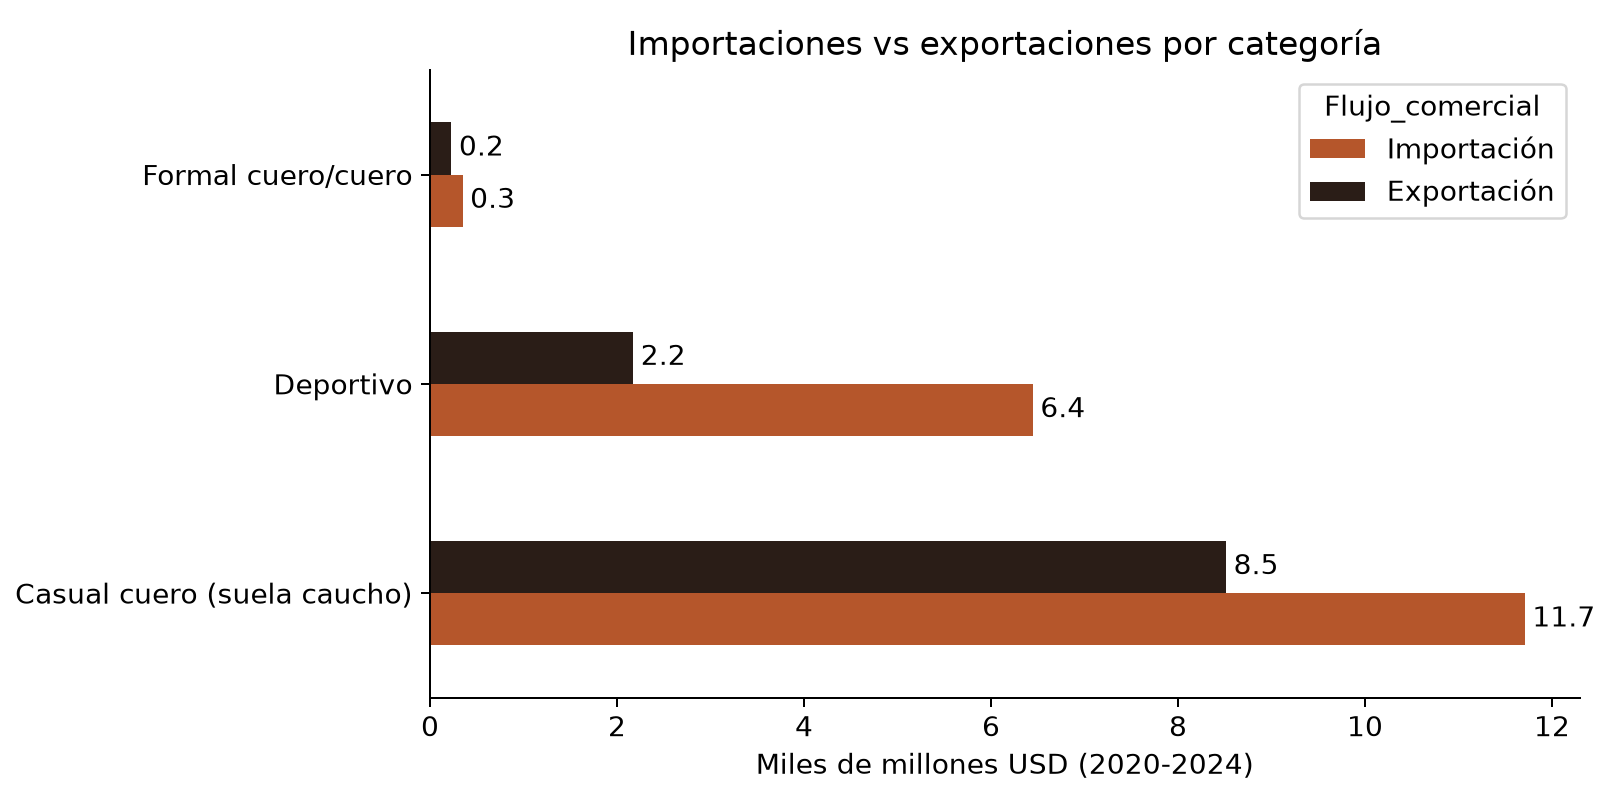
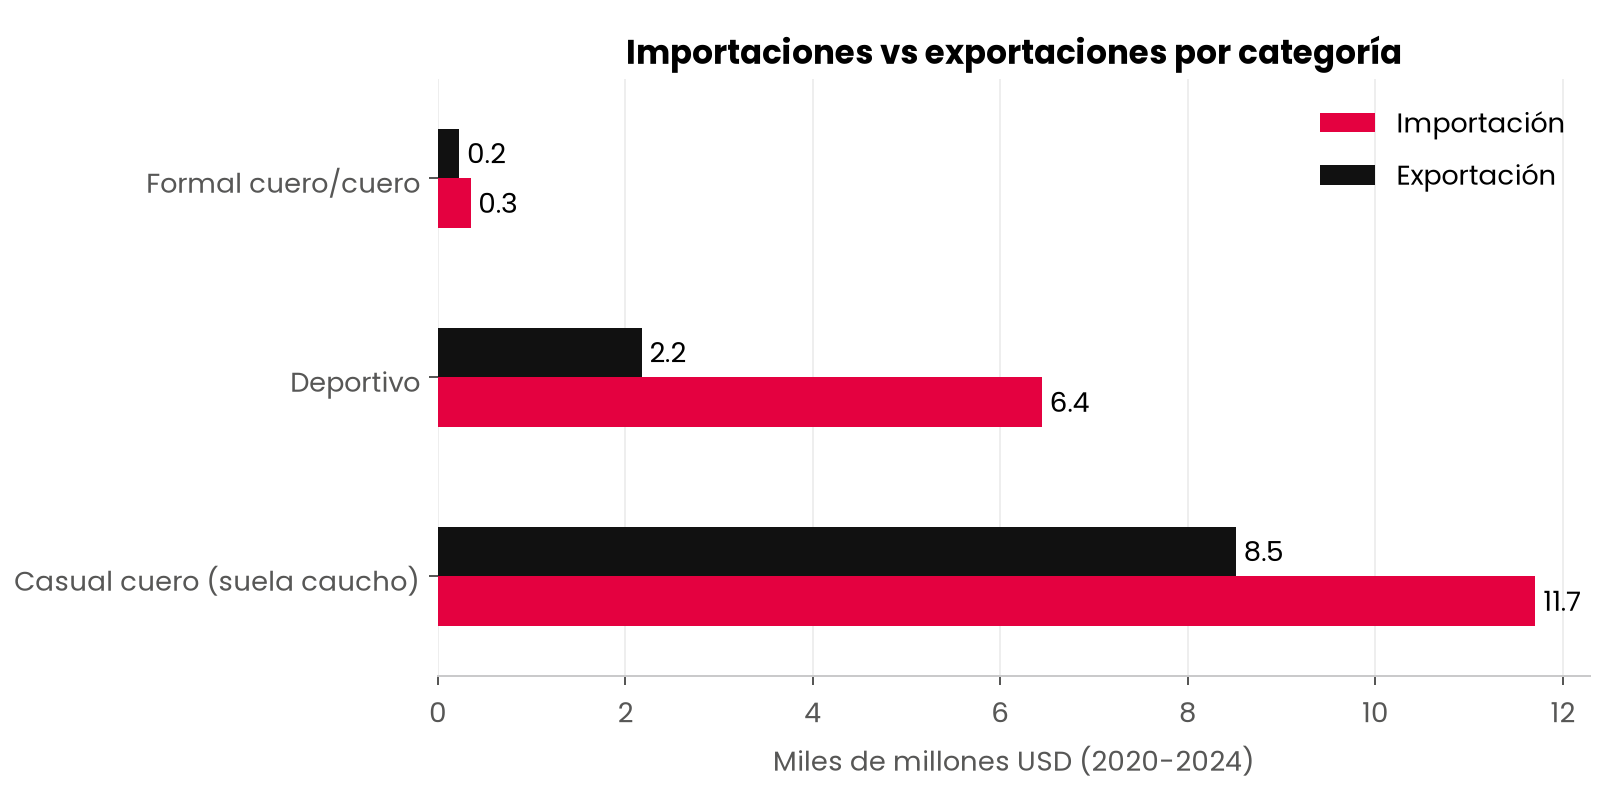
Gráficos y scripts de entregables con identidad Manaco (rojo #E40140, Poppins)

diff --git a/herramientas/ppt.js b/herramientas/ppt.js
@@ -1,21 +1,22 @@
 const pptxgen = require("pptxgenjs"), path = require("path"), fs = require("fs");
 const P = process.argv[2], G = f => path.join(P, "graficos", f), I = f => path.join(P, "app", "img", f);
 const pres = new pptxgen(); pres.layout = "LAYOUT_16x9"; // 10 x 5.625
-pres.theme = { headFontFace: "Cambria", bodyFontFace: "Calibri" };
-const ROJO = "B5562B", TINTA = "2A1D17", OSC = "2A1D17", GRIS = "F6F1EA", MUTE = "8A7A6C", BL = "FFFFFF";
-const T = (s, txt, o) => s.addText(txt, Object.assign({ isTextBox: true, fontFace: "Calibri", color: TINTA, margin: 0 }, o));
-const titulo = (s, t) => T(s, t, { x: 0.5, y: 0.35, w: 9, h: 0.7, fontFace: "Cambria", fontSize: 30, bold: true });
+pres.theme = { headFontFace: "Poppins", bodyFontFace: "Poppins" };
+const ROJO = "E40140", TINTA = "111111", OSC = "111111", GRIS = "F5F5F5", MUTE = "707072", BL = "FFFFFF";
+const T = (s, txt, o) => s.addText(txt, Object.assign({ isTextBox: true, fontFace: "Poppins", color: TINTA, margin: 0 }, o));
+const titulo = (s, t) => T(s, t, { x: 0.5, y: 0.35, w: 9, h: 0.7, fontFace: "Poppins", fontSize: 26, bold: true });
 const card = (s, x, y, w, h, fill = GRIS) => s.addShape(pres.shapes.ROUNDED_RECTANGLE, { x, y, w, h, rectRadius: 0.12, fill: { color: fill }, line: { color: fill } });
 const circ = (s, x, y, n, d = 0.5) => { s.addShape(pres.shapes.OVAL, { x, y, w: d, h: d, fill: { color: ROJO }, line: { color: ROJO } }); T(s, String(n), { x, y, w: d, h: d, align: "center", valign: "middle", color: BL, bold: true, fontSize: 16 }); };
 const pie = s => T(s, "Manaco Vision · Caso Manaco", { x: 0.5, y: 5.25, w: 5, h: 0.25, fontSize: 9, color: MUTE });
 
 // 1 Portada
-let s = pres.addSlide(); s.background = { color: OSC };
-T(s, "CASO DE ESTUDIO EMPRESARIAL · MANACO", { x: 0.6, y: 0.8, w: 6, h: 0.3, fontSize: 12, color: "B3A394", charSpacing: 2 });
-T(s, "Manaco Vision", { x: 0.6, y: 1.25, w: 6, h: 1, fontFace: "Cambria", fontSize: 48, bold: true, color: BL });
-T(s, "Inventario inteligente con visión artificial para decidir con datos", { x: 0.6, y: 2.3, w: 5.6, h: 0.8, fontSize: 18, color: "EDE3D8" });
-T(s, "Equipo consultor: ____________ / ____________", { x: 0.6, y: 3.9, w: 5.5, h: 0.3, fontSize: 13, color: "D8C8B8" });
-T(s, "20 de octubre de 2026", { x: 0.6, y: 4.25, w: 5.5, h: 0.3, fontSize: 13, color: "B3A394" });
+let s = pres.addSlide(); s.background = { color: ROJO };
+T(s, "manaco", { x: 0.6, y: 0.55, w: 4, h: 0.6, fontSize: 30, bold: true, italic: true, color: BL });
+T(s, "CASO DE ESTUDIO EMPRESARIAL", { x: 0.6, y: 1.15, w: 6, h: 0.3, fontSize: 11, color: "FFD1DD", charSpacing: 2 });
+T(s, "Manaco Vision", { x: 0.6, y: 1.5, w: 6, h: 0.9, fontFace: "Poppins", fontSize: 42, bold: true, color: BL });
+T(s, "Inventario inteligente con visión artificial para decidir con datos", { x: 0.6, y: 2.3, w: 5.6, h: 0.8, fontSize: 17, color: BL });
+T(s, "Equipo consultor: ____________ / ____________", { x: 0.6, y: 3.9, w: 5.5, h: 0.3, fontSize: 13, color: BL });
+T(s, "20 de octubre de 2026", { x: 0.6, y: 4.25, w: 5.5, h: 0.3, fontSize: 13, color: "FFD1DD" });
 card(s, 6.9, 1.1, 2.5, 3.1, BL);
 s.addImage({ path: G("qr_app.png"), x: 7.15, y: 1.3, w: 2.0, h: 2.0 });
 T(s, "Escanea y pruébalo", { x: 6.9, y: 3.4, w: 2.5, h: 0.3, align: "center", fontSize: 13, bold: true, color: ROJO });
@@ -25,8 +26,8 @@ s.addNotes("(15 s) Buenos días. Somos el equipo consultor contratado por la Ger
 // 2 Problema
 s = pres.addSlide(); s.background = { color: BL }; titulo(s, "Manaco decide sin datos confiables");
 const probs = [["Importados baratos", "Presión de precios, sobre todo en deportivo"], ["Costos altos", "Producción, almacenaje y distribución"], ["Inventario a ciegas", "Faltantes y sobrestock que nadie detecta"], ["Datos dispersos", "Ventas, stock y clientes sin integrar"]];
-probs.forEach(([h, d], i) => { const x = 0.5 + i * 2.3; card(s, x, 1.35, 2.1, 2.2); circ(s, x + 0.2, 1.55, i + 1); T(s, h, { x: x + 0.2, y: 2.2, w: 1.75, h: 0.4, fontSize: 15, bold: true }); T(s, d, { x: x + 0.2, y: 2.6, w: 1.75, h: 0.8, fontSize: 12, color: MUTE }); });
-card(s, 0.5, 3.85, 9, 1.1, "FBEFE7");
+probs.forEach(([h, d], i) => { const x = 0.5 + i * 2.3; card(s, x, 1.3, 2.1, 2.35); circ(s, x + 0.2, 1.45, i + 1); T(s, h, { x: x + 0.2, y: 2.05, w: 1.8, h: 0.55, fontSize: 13, bold: true, valign: "top" }); T(s, d, { x: x + 0.2, y: 2.62, w: 1.8, h: 0.9, fontSize: 11, valign: "top", color: MUTE }); });
+card(s, 0.5, 3.85, 9, 1.1, "FDE8EE");
 T(s, [{ text: "Causa raíz: ", options: { bold: true, color: ROJO } }, { text: "las decisiones se toman \"a ojo\". Si había 10, se vendieron 2 y hay 7… hoy nadie se entera del par que falta." }], { x: 0.8, y: 3.95, w: 8.4, h: 0.9, fontSize: 15, valign: "middle" });
 pie(s);
 s.addNotes("(45 s) Manaco enfrenta cuatro problemas: importados baratos, costos altos, inventario sin control y datos dispersos. Pero la causa raíz es una sola: deciden sin información confiable. Ejemplo: había 10 pares, se vendieron 2, deberían quedar 8, pero quedan 7. Ese par perdido hoy no se detecta; multiplicado por todas las tiendas, es dinero que se va.");
@@ -35,7 +36,7 @@ s.addNotes("(45 s) Manaco enfrenta cuatro problemas: importados baratos, costos 
 s = pres.addSlide(); s.background = { color: BL }; titulo(s, "Los datos dicen: competir en cuero, no en precio");
 s.addImage({ path: G("3_valor_por_par.png"), x: 0.4, y: 1.2, w: 5.6, h: 2.8 });
 const stats = [["≈ 45 USD", "por par vale el cuero/cuero, casi el doble que el resto (≈ 25)"], ["3×", "más importación que exportación en deportivo"], ["230", "registros depurados (2020–2024), sin nulos ni doble conteo"]];
-stats.forEach(([n, d], i) => { const y = 1.2 + i * 1.0; T(s, n, { x: 6.3, y, w: 3.2, h: 0.5, fontFace: "Cambria", fontSize: 28, bold: true, color: ROJO }); T(s, d, { x: 6.3, y: y + 0.48, w: 3.2, h: 0.45, fontSize: 11, color: MUTE }); });
+stats.forEach(([n, d], i) => { const y = 1.2 + i * 1.0; T(s, n, { x: 6.3, y, w: 3.2, h: 0.5, fontFace: "Poppins", fontSize: 28, bold: true, color: ROJO }); T(s, d, { x: 6.3, y: y + 0.48, w: 3.2, h: 0.45, fontSize: 11, color: MUTE }); });
 T(s, "Fuente: base de comercio exterior de calzado (país reportante: España). Es referencia de mercado, no son ventas de Manaco. El valor por par es valor en aduana, no precio al consumidor.", { x: 0.5, y: 4.4, w: 9, h: 0.5, fontSize: 10, color: MUTE, italic: true });
 pie(s);
 s.addNotes("(60 s) Limpiamos la base: 240 registros, sin nulos, sin registros 'Mundo', y agregamos 10 duplicados. Hallazgo clave: el calzado de cuero vale casi el doble por par. El deportivo es donde más presiona el importado barato. Conclusión: Manaco no debe pelear por precio, sino por su fortaleza, el cuero. Limitación honesta: son datos de España, una referencia externa, y el valor es en aduana.");
@@ -55,7 +56,7 @@ s = pres.addSlide(); s.background = { color: BL }; titulo(s, "Prototipo real: 72
 const cat = JSON.parse(fs.readFileSync(path.join(P, "dataset", "catalogo.json")));
 cat.filter((_, i) => i % 72 === 5).slice(0, 10).forEach((c, i) => { const x = 0.5 + (i % 5) * 1.25, y = 1.25 + Math.floor(i / 5) * 1.55; card(s, x, y, 1.12, 1.4, BL); s.addImage({ path: path.join(P, "app", c.imagen), x: x + 0.06, y: y + 0.05, w: 1.0, h: 1.0, sizing: { type: "contain", w: 1.0, h: 1.0 } }); T(s, c.nombre.split(" - ")[0].replace(/^(DEPORTIVO|ZAPATO DE VESTIR|ZAPATO FORMAL|ZAPATO|CASUAL CORDONES|ZAPATILLAS|BOTIN)\s*/i, "") || c.nombre, { x, y: y + 1.07, w: 1.12, h: 0.3, align: "center", fontSize: 9, bold: true }); });
 card(s, 6.9, 1.25, 2.6, 3.0, GRIS);
-T(s, "95 %", { x: 6.9, y: 1.35, w: 2.6, h: 0.7, align: "center", fontFace: "Cambria", fontSize: 40, bold: true, color: ROJO });
+T(s, "95 %", { x: 6.9, y: 1.35, w: 2.6, h: 0.7, align: "center", fontFace: "Poppins", fontSize: 40, bold: true, color: ROJO });
 T(s, "el modelo correcto está entre las 3 opciones · 82 % exacto", { x: 7.0, y: 2.05, w: 2.4, h: 0.55, align: "center", fontSize: 11, color: MUTE });
 s.addImage({ path: G("qr_app.png"), x: 7.6, y: 2.7, w: 1.2, h: 1.2 });
 T(s, "Demo en vivo", { x: 6.9, y: 3.9, w: 2.6, h: 0.3, align: "center", fontSize: 12, bold: true });
@@ -66,7 +67,7 @@ s.addNotes("(45 s) DEMO: abrir la app en el celular, apuntar a la foto de un zap
 // 6 Metas
 s = pres.addSlide(); s.background = { color: BL }; titulo(s, "Metas a 3 años y cómo las mediremos");
 const kpis = [["≥ 98 %", "Exactitud de inventario", "en 12 meses · KPI: sistema vs. conteo físico"], ["−20 %", "Sobrestock", "en 24 meses · KPI: rotación de inventario"], ["+15 %", "Ventas línea cuero", "en 36 meses · KPI: % de ventas en Bs"]];
-kpis.forEach(([n, h, d], i) => { const x = 0.5 + i * 3.05; card(s, x, 1.3, 2.85, 1.85); T(s, n, { x: x + 0.25, y: 1.45, w: 2.4, h: 0.65, fontFace: "Cambria", fontSize: 32, bold: true, color: ROJO }); T(s, h, { x: x + 0.25, y: 2.12, w: 2.4, h: 0.35, fontSize: 15, bold: true }); T(s, d, { x: x + 0.25, y: 2.5, w: 2.4, h: 0.55, fontSize: 11, color: MUTE }); });
+kpis.forEach(([n, h, d], i) => { const x = 0.5 + i * 3.05; card(s, x, 1.3, 2.85, 1.85); T(s, n, { x: x + 0.25, y: 1.45, w: 2.4, h: 0.65, fontFace: "Poppins", fontSize: 32, bold: true, color: ROJO }); T(s, h, { x: x + 0.25, y: 2.1, w: 2.45, h: 0.35, fontSize: 13, bold: true }); T(s, d, { x: x + 0.25, y: 2.5, w: 2.4, h: 0.55, fontSize: 11, color: MUTE }); });
 T(s, "Riesgos y mitigación", { x: 0.5, y: 3.4, w: 9, h: 0.35, fontSize: 15, bold: true });
 T(s, [{ text: "Resistencia del personal → ", options: { bold: true } }, { text: "piloto en 1 tienda, capacitación, 1 toque por venta", options: { breakLine: true } },
   { text: "Errores de reconocimiento → ", options: { bold: true } }, { text: "entrenar con fotos de tienda y usar código de barras como respaldo" }], { x: 0.5, y: 3.8, w: 9, h: 0.9, fontSize: 13, paraSpaceAfter: 6 });
@@ -75,15 +76,15 @@ s.addNotes("(30 s) Tres metas SMART: 98 % de exactitud de inventario en un año,
 
 // 7 Recomendación
 s = pres.addSlide(); s.background = { color: OSC };
-T(s, "Recomendación", { x: 0.6, y: 0.4, w: 9, h: 0.7, fontFace: "Cambria", fontSize: 30, bold: true, color: BL });
-card(s, 0.6, 1.3, 4.2, 2.1, "3D2D24");
-T(s, "A · Solo dashboard", { x: 0.85, y: 1.45, w: 3.8, h: 0.4, fontSize: 16, bold: true, color: "D8C8B8" });
-T(s, "Más barato, pero con datos manuales y atrasados. Muestra el problema, no lo resuelve.", { x: 0.85, y: 1.9, w: 3.8, h: 1.3, fontSize: 13, color: "B3A394" });
+T(s, "Recomendación", { x: 0.6, y: 0.4, w: 9, h: 0.7, fontFace: "Poppins", fontSize: 30, bold: true, color: BL });
+card(s, 0.6, 1.3, 4.2, 2.1, "2A2A2A");
+T(s, "A · Solo dashboard", { x: 0.85, y: 1.45, w: 3.8, h: 0.4, fontSize: 16, bold: true, color: "D9D9D9" });
+T(s, "Más barato, pero con datos manuales y atrasados. Muestra el problema, no lo resuelve.", { x: 0.85, y: 1.9, w: 3.8, h: 1.3, fontSize: 13, color: "BDBDBD" });
 card(s, 5.2, 1.3, 4.2, 2.1, ROJO);
 T(s, "B · Manaco Vision  ✓", { x: 5.45, y: 1.45, w: 3.8, h: 0.4, fontSize: 16, bold: true, color: BL });
 T(s, "Datos en tiempo real, detección de faltantes y base para el pronóstico de demanda. Resuelve la causa raíz.", { x: 5.45, y: 1.9, w: 3.8, h: 1.3, fontSize: 13, color: BL });
-T(s, "\"Manaco no debe competir en precio con el importado: debe competir en calidad y decidir con datos.\"", { x: 0.6, y: 3.75, w: 8.8, h: 0.8, fontFace: "Cambria", fontSize: 18, italic: true, color: BL });
-T(s, "Próximo paso: piloto de 3 meses en 1 tienda de La Paz", { x: 0.6, y: 4.65, w: 8.8, h: 0.35, fontSize: 13, bold: true, color: "F0B48E" });
+T(s, "\"Manaco no debe competir en precio con el importado: debe competir en calidad y decidir con datos.\"", { x: 0.6, y: 3.75, w: 8.8, h: 0.8, fontFace: "Poppins", fontSize: 18, italic: true, color: BL });
+T(s, "Próximo paso: piloto de 3 meses en 1 tienda de La Paz", { x: 0.6, y: 4.65, w: 8.8, h: 0.35, fontSize: 13, bold: true, color: "FF8FAE" });
 s.addNotes("(30 s) Comparamos dos alternativas: un dashboard solo muestra el problema; Manaco Vision lo resuelve. Recomendamos la B, empezando con un piloto de 3 meses en una tienda. Manaco no debe competir en precio: debe competir en calidad y decidir con datos. Gracias, quedamos atentos a sus preguntas.");
 
 pres.writeFile({ fileName: path.join(P, "entregables", "Presentacion_Manaco_Vision.pptx") }).then(f => console.log("ok", f));

diff --git a/herramientas/word.js b/herramientas/word.js
@@ -3,15 +3,16 @@ const D = require("docx");
 const { Document, Packer, Paragraph, TextRun, HeadingLevel, Table, TableRow, TableCell, WidthType, ShadingType,
   AlignmentType, ImageRun, PageBreak, LevelFormat, BorderStyle, ExternalHyperlink, Footer, PageNumber } = D;
 const P = process.argv[2];
-const ROJO = "B5562B", GRIS = "F2F2F2", W = 9026; // A4 con márgenes de 2,54 cm
+const TR = o => new TextRun(typeof o === "string" ? { text: o, font: "Poppins" } : { font: "Poppins", ...o });
+const ROJO = "E40140", GRIS = "F2F2F2", W = 9026; // A4 con márgenes de 2,54 cm
 
-const p = (t, o = {}) => new Paragraph({ spacing: { after: 120 }, ...o, children: [].concat(t).map(x => typeof x === "string" ? new TextRun(x) : x) });
-const b = t => new TextRun({ text: t, bold: true });
-const h1 = t => new Paragraph({ heading: HeadingLevel.HEADING_1, pageBreakBefore: true, children: [new TextRun(t)] });
-const h2 = t => new Paragraph({ heading: HeadingLevel.HEADING_2, children: [new TextRun(t)] });
-const li = (t, ref = "vin") => new Paragraph({ numbering: { reference: ref, level: 0 }, spacing: { after: 60 }, children: [].concat(t).map(x => typeof x === "string" ? new TextRun(x) : x) });
+const p = (t, o = {}) => new Paragraph({ spacing: { after: 120 }, ...o, children: [].concat(t).map(x => typeof x === "string" ? TR(x) : x) });
+const b = t => TR({ text: t, bold: true });
+const h1 = t => [new Paragraph({ children: [new PageBreak()] }), new Paragraph({ heading: HeadingLevel.HEADING_1, children: [TR(t)] })];
+const h2 = t => new Paragraph({ heading: HeadingLevel.HEADING_2, children: [TR(t)] });
+const li = (t, ref = "vin") => new Paragraph({ numbering: { reference: ref, level: 0 }, spacing: { after: 60 }, children: [].concat(t).map(x => typeof x === "string" ? TR(x) : x) });
 const img = (f, w, h) => new Paragraph({ alignment: AlignmentType.CENTER, children: [new ImageRun({ type: "png", data: fs.readFileSync(path.join(P, "graficos", f)), transformation: { width: w, height: h } })] });
-const cap = t => p(new TextRun({ text: t, italics: true, size: 18, color: "555555" }), { alignment: AlignmentType.CENTER, spacing: { after: 240 } });
+const cap = t => p(TR({ text: t, italics: true, size: 18, color: "555555" }), { alignment: AlignmentType.CENTER, spacing: { after: 240 } });
 
 function tabla(cols, filas, opts = {}) {
   const tot = cols.reduce((a, c) => a + c[1], 0), k = W / tot, cw = cols.map(c => Math.round(c[1] * k));
@@ -19,7 +20,7 @@ function tabla(cols, filas, opts = {}) {
   const cell = (t, i, head) => new TableCell({
     width: { size: cw[i], type: WidthType.DXA }, margins: { top: 60, bottom: 60, left: 90, right: 90 },
     shading: head ? { type: ShadingType.CLEAR, fill: ROJO, color: "auto" } : undefined,
-    children: [].concat(t).map(x => new Paragraph({ children: [new TextRun({ text: String(x), bold: head, color: head ? "FFFFFF" : undefined, size: opts.size || 20 })] }))
+    children: [].concat(t).map(x => new Paragraph({ children: [TR({ text: String(x), bold: head, color: head ? "FFFFFF" : undefined, size: opts.size || 20 })] }))
   });
   return new Table({
     width: { size: W, type: WidthType.DXA }, columnWidths: cw,
@@ -31,15 +32,15 @@ const esp = () => p("");
 
 // ---------- CONTENIDO ----------
 const portada = [
-  new Paragraph({ spacing: { before: 2400 }, alignment: AlignmentType.CENTER, children: [new TextRun({ text: "CASO DE ESTUDIO EMPRESARIAL · MANACO", size: 24, color: "555555" })] }),
-  new Paragraph({ alignment: AlignmentType.CENTER, spacing: { before: 300 }, children: [new TextRun({ text: "MANACO VISION", bold: true, size: 64, color: ROJO })] }),
-  new Paragraph({ alignment: AlignmentType.CENTER, spacing: { after: 600 }, children: [new TextRun({ text: "Inventario inteligente con visión artificial y analítica de datos para la toma de decisiones", size: 28 })] }),
+  new Paragraph({ spacing: { before: 2400 }, alignment: AlignmentType.CENTER, children: [TR({ text: "CASO DE ESTUDIO EMPRESARIAL · MANACO", size: 24, color: "555555" })] }),
+  new Paragraph({ alignment: AlignmentType.CENTER, spacing: { before: 300 }, children: [TR({ text: "MANACO VISION", bold: true, size: 64, color: ROJO })] }),
+  new Paragraph({ alignment: AlignmentType.CENTER, spacing: { after: 600 }, children: [TR({ text: "Inventario inteligente con visión artificial y analítica de datos para la toma de decisiones", size: 28 })] }),
   p("Carrera: Ingeniería de Sistemas, Ciencia de Datos e Inteligencia de Negocios", { alignment: AlignmentType.CENTER }),
   p("Nivel: 6.º semestre · Modalidad: Aprendizaje Basado en Retos (ABR)", { alignment: AlignmentType.CENTER }),
   p("Equipo consultor: ______________________  /  ______________________", { alignment: AlignmentType.CENTER, spacing: { before: 600 } }),
   p("Docente: ______________________", { alignment: AlignmentType.CENTER }),
   p("Fecha: 20 de octubre de 2026", { alignment: AlignmentType.CENTER }),
-  p([b("Prototipo en línea: "), new ExternalHyperlink({ link: "https://gris999.github.io/manaco-vision/", children: [new TextRun({ text: "https://gris999.github.io/manaco-vision/", style: "Hyperlink" })] })], { alignment: AlignmentType.CENTER, spacing: { before: 400 } }),
+  p([b("Prototipo en línea: "), new ExternalHyperlink({ link: "https://gris999.github.io/manaco-vision/", children: [TR({ text: "https://gris999.github.io/manaco-vision/", style: "Hyperlink" })] })], { alignment: AlignmentType.CENTER, spacing: { before: 400 } }),
 ];
 
 const resumen = [
@@ -165,7 +166,7 @@ const est4 = [
     ["Riesgo", "Datos manuales poco confiables", "Adopción en tiendas (mitigable con un piloto)"],
     ["KPI de seguimiento", "Uso de reportes", "Exactitud de inventario, rotación y faltantes en Bs"],
   ]),
-  p(new TextRun({ text: "*Estimación cualitativa: se requieren costos internos de Manaco para cuantificar.", italics: true, size: 18 })),
+  p(TR({ text: "*Estimación cualitativa: se requieren costos internos de Manaco para cuantificar.", italics: true, size: 18 })),
   p([b("Recomendación: Alternativa B. "), "Resuelve la causa raíz (falta de datos confiables) y no solo la muestra. Además, genera el historial necesario para un futuro pronóstico de demanda."]),
   h2("4.2 Segmento y acción comercial"),
   p([b("Segmento: "), "hombres y mujeres adultos que trabajan y buscan calzado formal o casual de cuero duradero."]),
@@ -180,7 +181,7 @@ const est4 = [
 
 const prot = [
   h1("5. Prototipo funcional"),
-  p([b("Enlace: "), new ExternalHyperlink({ link: "https://gris999.github.io/manaco-vision/", children: [new TextRun({ text: "https://gris999.github.io/manaco-vision/", style: "Hyperlink" })] }), " (se abre en el celular; la cámara requiere HTTPS)."]),
+  p([b("Enlace: "), new ExternalHyperlink({ link: "https://gris999.github.io/manaco-vision/", children: [TR({ text: "https://gris999.github.io/manaco-vision/", style: "Hyperlink" })] }), " (se abre en el celular; la cámara requiere HTTPS)."]),
   tabla([["Componente", 1.6], ["Detalle", 4]], [
     ["Catálogo", "725 modelos reales de la tienda en línea de la empresa (360 de dama, 191 de hombre y 174 infantiles; marcas Bata, North Star, Bubble Gummers, Power, Manaco, entre otras), más la clase \"no es Manaco\""],
     ["Dataset", "2.740 fotos originales, ampliadas a unas 22.000 imágenes (30 por modelo) con variaciones de fondo, luz, giro y escala"],
@@ -208,10 +209,11 @@ function rubrica(titulo, quien) {
 const doc = new Document({
   creator: "Equipo consultor", title: "Manaco Vision — Caso Manaco",
   styles: {
-    default: { document: { run: { font: "Calibri", size: 22 } } },
+    default: { document: { run: { font: "Poppins", size: 20 } } },
     paragraphStyles: [
-      { id: "Heading1", name: "Heading 1", basedOn: "Normal", next: "Normal", quickFormat: true, run: { size: 32, bold: true, color: ROJO }, paragraph: { spacing: { after: 200 }, outlineLevel: 0 } },
-      { id: "Heading2", name: "Heading 2", basedOn: "Normal", next: "Normal", quickFormat: true, run: { size: 26, bold: true, color: "1F2937" }, paragraph: { spacing: { before: 240, after: 120 }, outlineLevel: 1 } },
+      { id: "Normal", name: "Normal", quickFormat: true, run: { font: "Poppins", size: 20, color: "111111" }, paragraph: { spacing: { after: 120, line: 276 } } },
+      { id: "Heading1", name: "Heading 1", basedOn: "Normal", next: "Normal", quickFormat: true, run: { font: "Poppins", size: 32, bold: true, color: ROJO }, paragraph: { spacing: { after: 200 }, outlineLevel: 0 } },
+      { id: "Heading2", name: "Heading 2", basedOn: "Normal", next: "Normal", quickFormat: true, run: { font: "Poppins", size: 24, bold: true, color: "111111" }, paragraph: { spacing: { before: 240, after: 120 }, outlineLevel: 1 } },
     ]
   },
   numbering: { config: [
@@ -220,11 +222,11 @@ const doc = new Document({
   ] },
   sections: [{
     properties: { page: { margin: { top: 1440, bottom: 1440, left: 1440, right: 1440 } } },
-    footers: { default: new Footer({ children: [new Paragraph({ alignment: AlignmentType.RIGHT, children: [new TextRun({ text: "Manaco Vision · ", size: 16, color: "888888" }), new TextRun({ children: [PageNumber.CURRENT], size: 16, color: "888888" })] })] }) },
+    footers: { default: new Footer({ children: [new Paragraph({ alignment: AlignmentType.RIGHT, children: [TR({ text: "Manaco Vision · ", size: 16, color: "888888" }), TR({ children: [PageNumber.CURRENT], size: 16, color: "888888" })] })] }) },
     children: [...portada, ...resumen, ...est1, ...est2, ...est3, ...est4, ...prot,
       ...rubrica("Rúbrica de autoevaluación por grupo de los estudiantes", "Indicar sus fortalezas y debilidades en este proceso"),
       ...rubrica("Rúbrica de evaluación por grupo del docente", "Indicar las fortalezas y debilidades del estudiante en este proceso"),
-      p("Nombre del docente: ……………………………………………………………", { spacing: { before: 400 } })]
+      p("Nombre del docente: ……………………………………………………………", { spacing: { before: 400 } })].flat(3)
   }]
 });
 Packer.toBuffer(doc).then(buf => { fs.writeFileSync(path.join(P, "entregables", "Proyecto_Manaco_Vision.docx"), buf); console.log("ok"); });

diff --git a/herramientas/analisis.py b/herramientas/analisis.py
@@ -11,22 +11,30 @@ dep=dep[dep.Socio_comercial!="Mundo"]
 dep.to_excel(f"{P}/entregables/tabla_depurada.xlsx",index=False)
 g=dep.groupby(["Cat","Flujo_comercial"]).agg(V=("Valor_USD","sum"),Q=("Cantidad_pares","sum")); g["ppp"]=g.V/g.Q
 ind=g.reset_index(); ind.to_csv(f"{P}/entregables/indicadores.csv",index=False)
-plt.rcParams.update({"font.size":11,"axes.spines.top":False,"axes.spines.right":False})
-C={"Importación":"#b5562b","Exportación":"#2a1d17"}
+import glob, os
+from matplotlib import font_manager
+for f in glob.glob(os.path.expanduser("~/Library/Fonts/Poppins-*.ttf")): font_manager.fontManager.addfont(f)
+plt.rcParams.update({"font.family":"Poppins","font.size":11,"axes.spines.top":False,"axes.spines.right":False,"axes.spines.left":False,
+  "axes.edgecolor":"#CACACB","axes.labelcolor":"#575756","xtick.color":"#575756","ytick.color":"#575756","axes.titleweight":"bold","axes.titlesize":13,
+  "axes.grid":True,"axes.grid.axis":"x" if False else "y","grid.color":"#EEEEEE","axes.axisbelow":True,"legend.frameon":False})
+C={"Importación":"#E40140","Exportación":"#111111"}
 # 1 Import vs Export por categoría
 v=g.V.unstack()/1e9; ax=v[["Importación","Exportación"]].plot.barh(color=[C["Importación"],C["Exportación"]],figsize=(9,4.5))
 ax.set_xlabel("Miles de millones USD (2020-2024)"); ax.set_ylabel(""); ax.set_title("Importaciones vs exportaciones por categoría")
 for c in ax.containers: ax.bar_label(c,fmt="%.1f",padding=3)
+ax.legend(title=None); ax.grid(axis="y",visible=False); ax.grid(axis="x",color="#EEEEEE")
 plt.tight_layout(); plt.savefig(f"{P}/graficos/1_import_vs_export.png",dpi=180); plt.close()
 # 2 Socios
 fig,axs=plt.subplots(1,2,figsize=(11,4.5))
 for a,f in zip(axs,["Importación","Exportación"]):
   s=(dep[dep.Flujo_comercial==f].groupby("Socio_comercial").Valor_USD.sum().nlargest(8)/1e9).sort_values()
   s.plot.barh(ax=a,color=C[f]); a.set_title(f"Top 8 {'proveedores' if f=='Importación' else 'destinos'}"); a.set_ylabel(""); a.set_xlabel("Miles de millones USD")
+[a.grid(axis="y",visible=False) or a.grid(axis="x",color="#EEEEEE") for a in axs]
 plt.tight_layout(); plt.savefig(f"{P}/graficos/2_socios.png",dpi=180); plt.close()
 # 3 Valor por par
 p=g.ppp.unstack()[["Importación","Exportación"]]; ax=p.plot.bar(color=[C["Importación"],C["Exportación"]],figsize=(9,4.5),rot=0)
 ax.set_ylabel("USD por par"); ax.set_xlabel(""); ax.set_title("Valor comercial aproximado por par")
 for c in ax.containers: ax.bar_label(c,fmt="$%.1f",padding=3)
+ax.legend(title=None); ax.grid(axis="x",visible=False)
 plt.tight_layout(); plt.savefig(f"{P}/graficos/3_valor_por_par.png",dpi=180); plt.close()
 print(ind.round(2).to_string()); print("filas depuradas:",len(dep))
